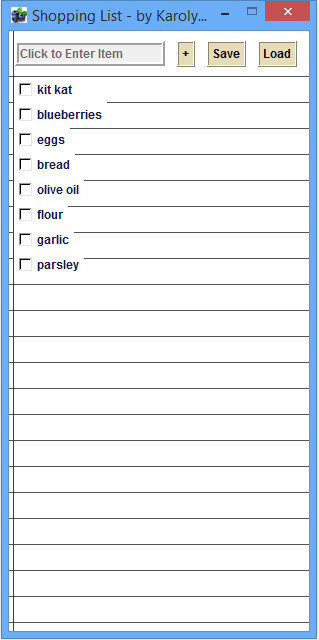
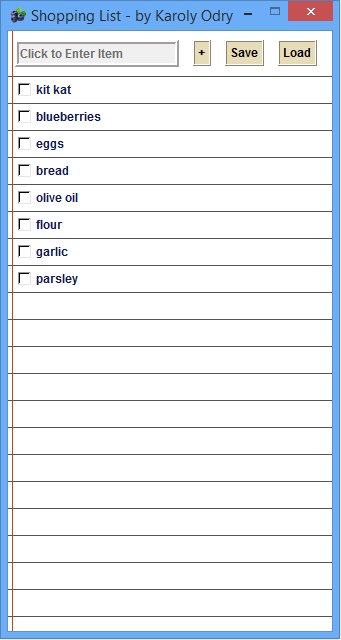
Initial commit

diff --git a/ShopList.py b/ShopList.py
@@ -7,7 +7,7 @@ import os
 frame = Tk()
 # frame.attributes("-alpha", 0.9) # ---> set opacity of frame
 frame.title('Shopping List - by Karoly Odry')
-frame.geometry('300x600+200+80')
+frame.geometry('324x600+200+80')
 frame.iconbitmap("C:\\Users\\k\\PycharmProjects\\untitled\\ShopList\\bb_32x32.ico")
 frame.resizable(width=False, height=False)
 
@@ -45,7 +45,7 @@ def add_entry(row=None):
     n = len(chb)
     lb = Checkbutton(frame, text=e, variable=n, fg='#141951', bg='#ffffff', font=font, onvalue=1, offvalue=0,
                      command=lambda key=n: del_item(key))
-    lb.grid(row=row, column=0, padx=5, pady=0, ipady=0, sticky=NW)
+    lb.grid(row=row, column=0, padx=5, pady=0.5, ipady=0, sticky=NW)
     chb.append(lb)  # ---> new
 
 
@@ -80,7 +80,7 @@ def open_list(row=None):
             lb = Checkbutton(frame, text=elem, variable=var[index], fg='#141951', bg='#ffffff', font=font, onvalue=1,
                              offvalue=0,
                              command=lambda key=index: del_item(key))
-            lb.grid(row=row, column=0, padx=5, pady=0, ipady=0, sticky=NW)
+            lb.grid(row=row, column=0, padx=5, pady=0.5, ipady=0, sticky=NW)
             chb_list.append(lb)
 
 
@@ -89,15 +89,15 @@ en = Entry(frame, textvariable=entext, fg='#141951', bg='#e6dcb8', bd=4, relief=
 en.insert(0, "Click to Enter Item")
 en.configure(state=DISABLED)
 on_click_id = en.bind('<Button-1>', on_click)
-en.grid(row=0, column=0, padx=6, pady=10)
+en.grid(row=0, column=0, ipadx=7, ipady=1, padx=7, pady=9)
 
 add_btn = Button(frame, text='+', bg='#e6dcb8', relief='ridge', font=font, command=add_entry)
-add_btn.grid(row=0, column=1, padx=6, pady=10)
+add_btn.grid(row=0, column=1, padx=7, pady=9)
 
 save_btn = Button(frame, text='Save', bg='#e6dcb8', relief='ridge', font=font, command=save_list)
-save_btn.grid(row=0, column=2, padx=6, pady=10)
+save_btn.grid(row=0, column=2, padx=7, pady=9)
 
 load_btn = Button(frame, text='Load', bg='#e6dcb8', relief='ridge', font=font, command=open_list)
-load_btn.grid(row=0, column=3, padx=6, pady=10)
+load_btn.grid(row=0, column=3, padx=7, pady=9)
 
 frame.mainloop()
